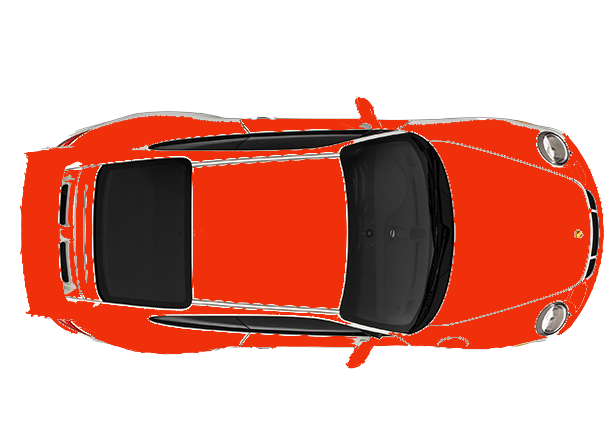
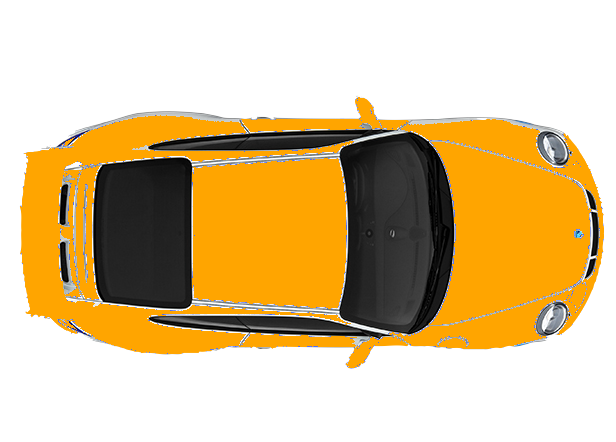
more colors for cars, better graphics, minor points for paper

Changed region(s): [[0.0308, 0.2059, 0.987, 0.8529]]

diff --git a/CarMergeKinematicBicycle.py b/CarMergeKinematicBicycle.py
@@ -58,7 +58,7 @@ class CarMergeKinematicBicycle(ResidualGame):
         self.dynamics_residual_weight = 1.0
 
         self.tolerance = 5e-4
-        self.iterations = 30
+        self.iterations = 50 # 30
 
         # dimension of x and u for single agent
         self.n = 4
@@ -68,11 +68,12 @@ class CarMergeKinematicBicycle(ResidualGame):
         self.visual_x_lim = [-2.5,2.5]
         self.visual_y_lim = [-2,30]
         # animation/visualization related
-        self.sprite_visualization = False # True would use car images instead of boaxes
+        self.sprite_visualization = True # True would use car images instead of boaxes
 
         if (self.sprite_visualization):
-            self.car_scale = 0.005/2
-            self.car_img_vec = [mpimg.imread('./resources/porsche_green.png'),mpimg.imread('./resources/porsche_orange.png'),mpimg.imread('./resources/porsche_blue.png')]
+            self.car_scale = 0.0045/2 # 0.005/2
+            color_names = ['purple', 'yellow', 'red', 'green', 'orange', 'pink', 'cyan', 'hot_pink']
+            self.car_img_vec = [mpimg.imread(f'./resources/porsche_{color}.png') for color in color_names]
 
         # collision definition
         self.h_Qh = np.diag([-1.0,-1,0,0])
@@ -93,10 +94,10 @@ class CarMergeKinematicBicycle(ResidualGame):
         self.guess = np.zeros((self.T,self.N,self.m))
 
         # multiple car merge, car_count: main_lane_n + merge_lane_n, Dr 650ms
-        main_lane_n = min(int(0.65*car_count),car_count-1)
+        main_lane_n = min(int(0.67*car_count),car_count-1)
         merge_lane_n = car_count - main_lane_n
-        x_pos_main_lane = np.linspace(0,(main_lane_n-1)*5,main_lane_n) + np.random.random(main_lane_n)
-        x_pos_merge_lane = 2.5+np.linspace(0,(merge_lane_n-1)*5,merge_lane_n) + np.random.random(merge_lane_n)
+        x_pos_main_lane = np.linspace(0,(main_lane_n-1)*5.4,main_lane_n) + np.random.random(main_lane_n)
+        x_pos_merge_lane = 2.5+np.linspace(0,(merge_lane_n-1)*5.4,merge_lane_n) + np.random.random(merge_lane_n)
         v_main_lane = 2.0 + np.random.random(main_lane_n)
         v_merge_lane = 2.0 + np.random.random(merge_lane_n)
         x0_main_lane = np.vstack([x_pos_main_lane,self.track_width/2*np.ones(main_lane_n),v_main_lane, np.zeros(main_lane_n)]).T
@@ -204,13 +205,17 @@ class CarMergeKinematicBicycle(ResidualGame):
             for circ in circle_vec:
                 ax.add_patch(circ)
 
+        # fine-tune dark background to mimic tarmac
+        # Set the background color of the plot (axes background)
+        ax.set_facecolor((54/255, 69/255, 79/255))
+
         # lane markings
         # boundary lines
-        ax.vlines(x=-self.track_width,ymin=self.visual_y_lim[0],ymax=self.visual_y_lim[1])
-        ax.vlines(x=self.track_width, ymin=self.visual_y_lim[0],ymax=self.visual_y_lim[1])
+        ax.vlines(x=-self.track_width,ymin=self.visual_y_lim[0],ymax=self.visual_y_lim[1],colors='white')
+        ax.vlines(x=self.track_width, ymin=self.visual_y_lim[0],ymax=self.visual_y_lim[1],colors='white')
         # dotted line
         for i in np.linspace(self.visual_y_lim[0], self.visual_y_lim[1], 20):
-            ax.vlines(x=0, ymin=i,ymax=i+1)
+            ax.vlines(x=0, ymin=i,ymax=i+1, colors='white')
 
         ax.set_aspect('equal', adjustable='box')
         ax.set_xlim(*self.visual_x_lim)
@@ -221,10 +226,10 @@ class CarMergeKinematicBicycle(ResidualGame):
 
         gif_filename = self.resolveLogname(logPrefix=gif_prefix)
         anim.save(gif_filename, writer='pillow')
+        self.print_info(f'gif saved to {gif_filename}')
         plt.show()
 
         # NOTE save initial, middle, final snapshots
-        '''
         update(0)
         fig.canvas.draw()
         frame = Image.frombytes('RGB',
@@ -248,7 +253,6 @@ class CarMergeKinematicBicycle(ResidualGame):
         filename = f'./pics/merge_{self.N}car_final.png'
         self.print_info(f'saved to {filename}')
         frame.save(filename)
-        '''
 
 
     ''' --------  math functions and their derivatives ------ '''
@@ -432,7 +436,7 @@ class CarMergeKinematicBicycle(ResidualGame):
 
 if __name__=="__main__":
     np.random.seed(0)
-    main = CarMergeKinematicBicycle(car_count=2)
+    main = CarMergeKinematicBicycle(car_count=3)
     main.setup()
     main.solve(save_gif=False,visualize=True,animate=True)
     main.final()

diff --git a/CarRacing.py b/CarRacing.py
@@ -67,7 +67,7 @@ class CarRacing(ResidualGame):
         # Problem formulation
         # decision variables:
         self.N = 2
-        self.T = 40
+        self.T = 30
         self.dt = dt = 0.05
         # dimension of x and u for single agent
         self.n = 4
@@ -94,7 +94,8 @@ class CarRacing(ResidualGame):
 
         #if (self.sprite_visualization):
         self.car_scale = 0.0005/2
-        self.car_img_vec = [mpimg.imread('./resources/porsche_green.png'),mpimg.imread('./resources/porsche_orange.png'),mpimg.imread('./resources/porsche_blue.png')]
+        color_names = ['purple', 'yellow', 'red', 'green', 'orange', 'pink', 'cyan', 'hot_pink']
+        self.car_img_vec = [mpimg.imread(f'./resources/porsche_{color}.png') for color in color_names]
 
 
         # initial state,

diff --git a/plot_convergence.py b/plot_convergence.py
@@ -6,7 +6,7 @@ with open('convergence.p','rb') as f:
 diverge_count = 0
 for residual_vec in residual_vec_vec:
     if (len(residual_vec) == 50 and residual_vec[30]<1e-2):
-        plt.plot(residual_vec,'-*')
+        plt.plot(residual_vec,'-')
     else:
         diverge_count += 1
 
@@ -16,7 +16,7 @@ with open('convergence.p', 'wb') as f:
 print(f'diverge count {diverge_count}')
 plt.yscale('log')
 plt.xlabel('Iteration')
-plt.ylabel('Residual (exp)')
+plt.ylabel('Residual')
 plt.show()
 
 

diff --git a/src/car_merge_kinematic_bicycle.h b/src/car_merge_kinematic_bicycle.h
@@ -22,7 +22,7 @@ class CarMergeKinematicBicycle : public ResidualGame<n,m> {
         }
 
 
-        Matrix f(const Matrix x, const Matrix u){
+        Matrix f(const Matrix x, const Matrix u, const int i){
             const Scalar lf = 1.0; const Scalar lr = 1.0;
             const Scalar beta = atan(tan(u(1,0))*lr/(lf+lr));
             Matrix dx = (Matrix(n,1) << x(2,0)*cos(x(3,0)+beta),x(2,0)*sin(x(3,0)+beta), u(0,0),x(2,0)/lr*sin(beta)).finished();

diff --git a/ResidualGame.py b/ResidualGame.py
@@ -94,8 +94,6 @@ class ResidualGame(PrintObject,ABC):
             I forgot why I did the fallback
         '''
         #TODO does cpp lscg fallback to cpp sparseQR?
-
-
         self.print_ok(f'USE_CPP: {self.USE_CPP}')
         self.print_ok(f'FORCE_PYTHON_SOLVER: {self.FORCE_PYTHON_SOLVER}')
 
